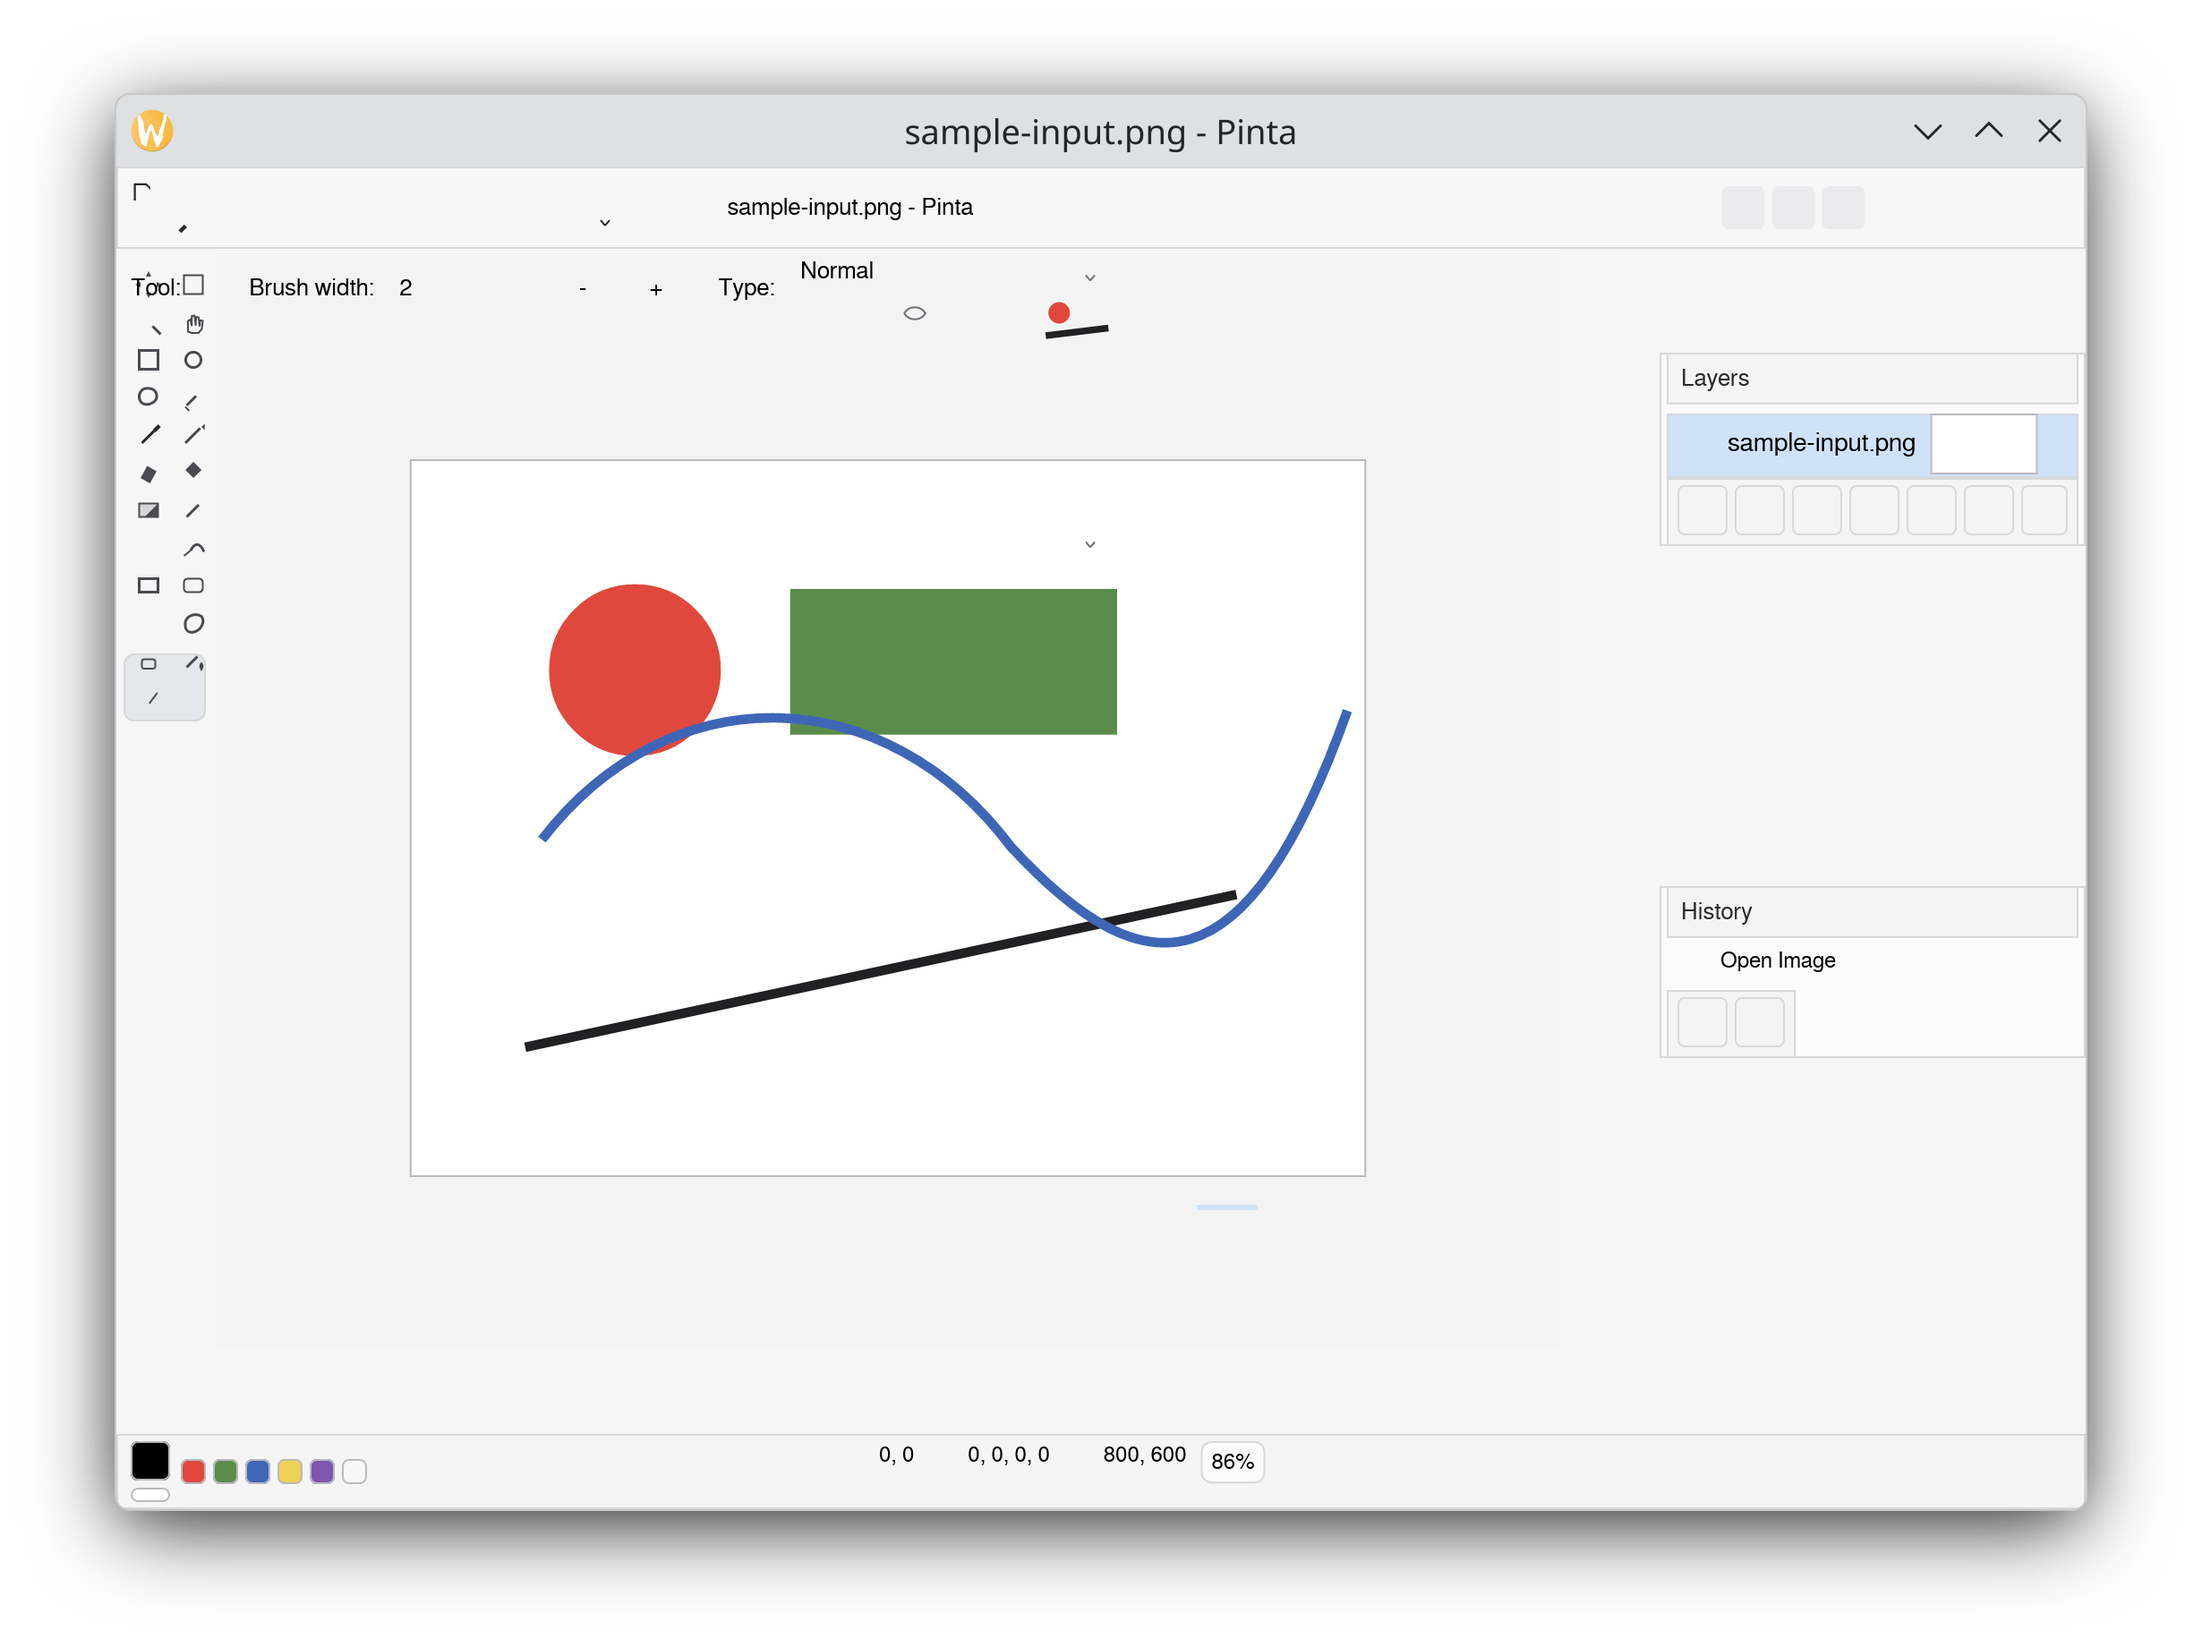
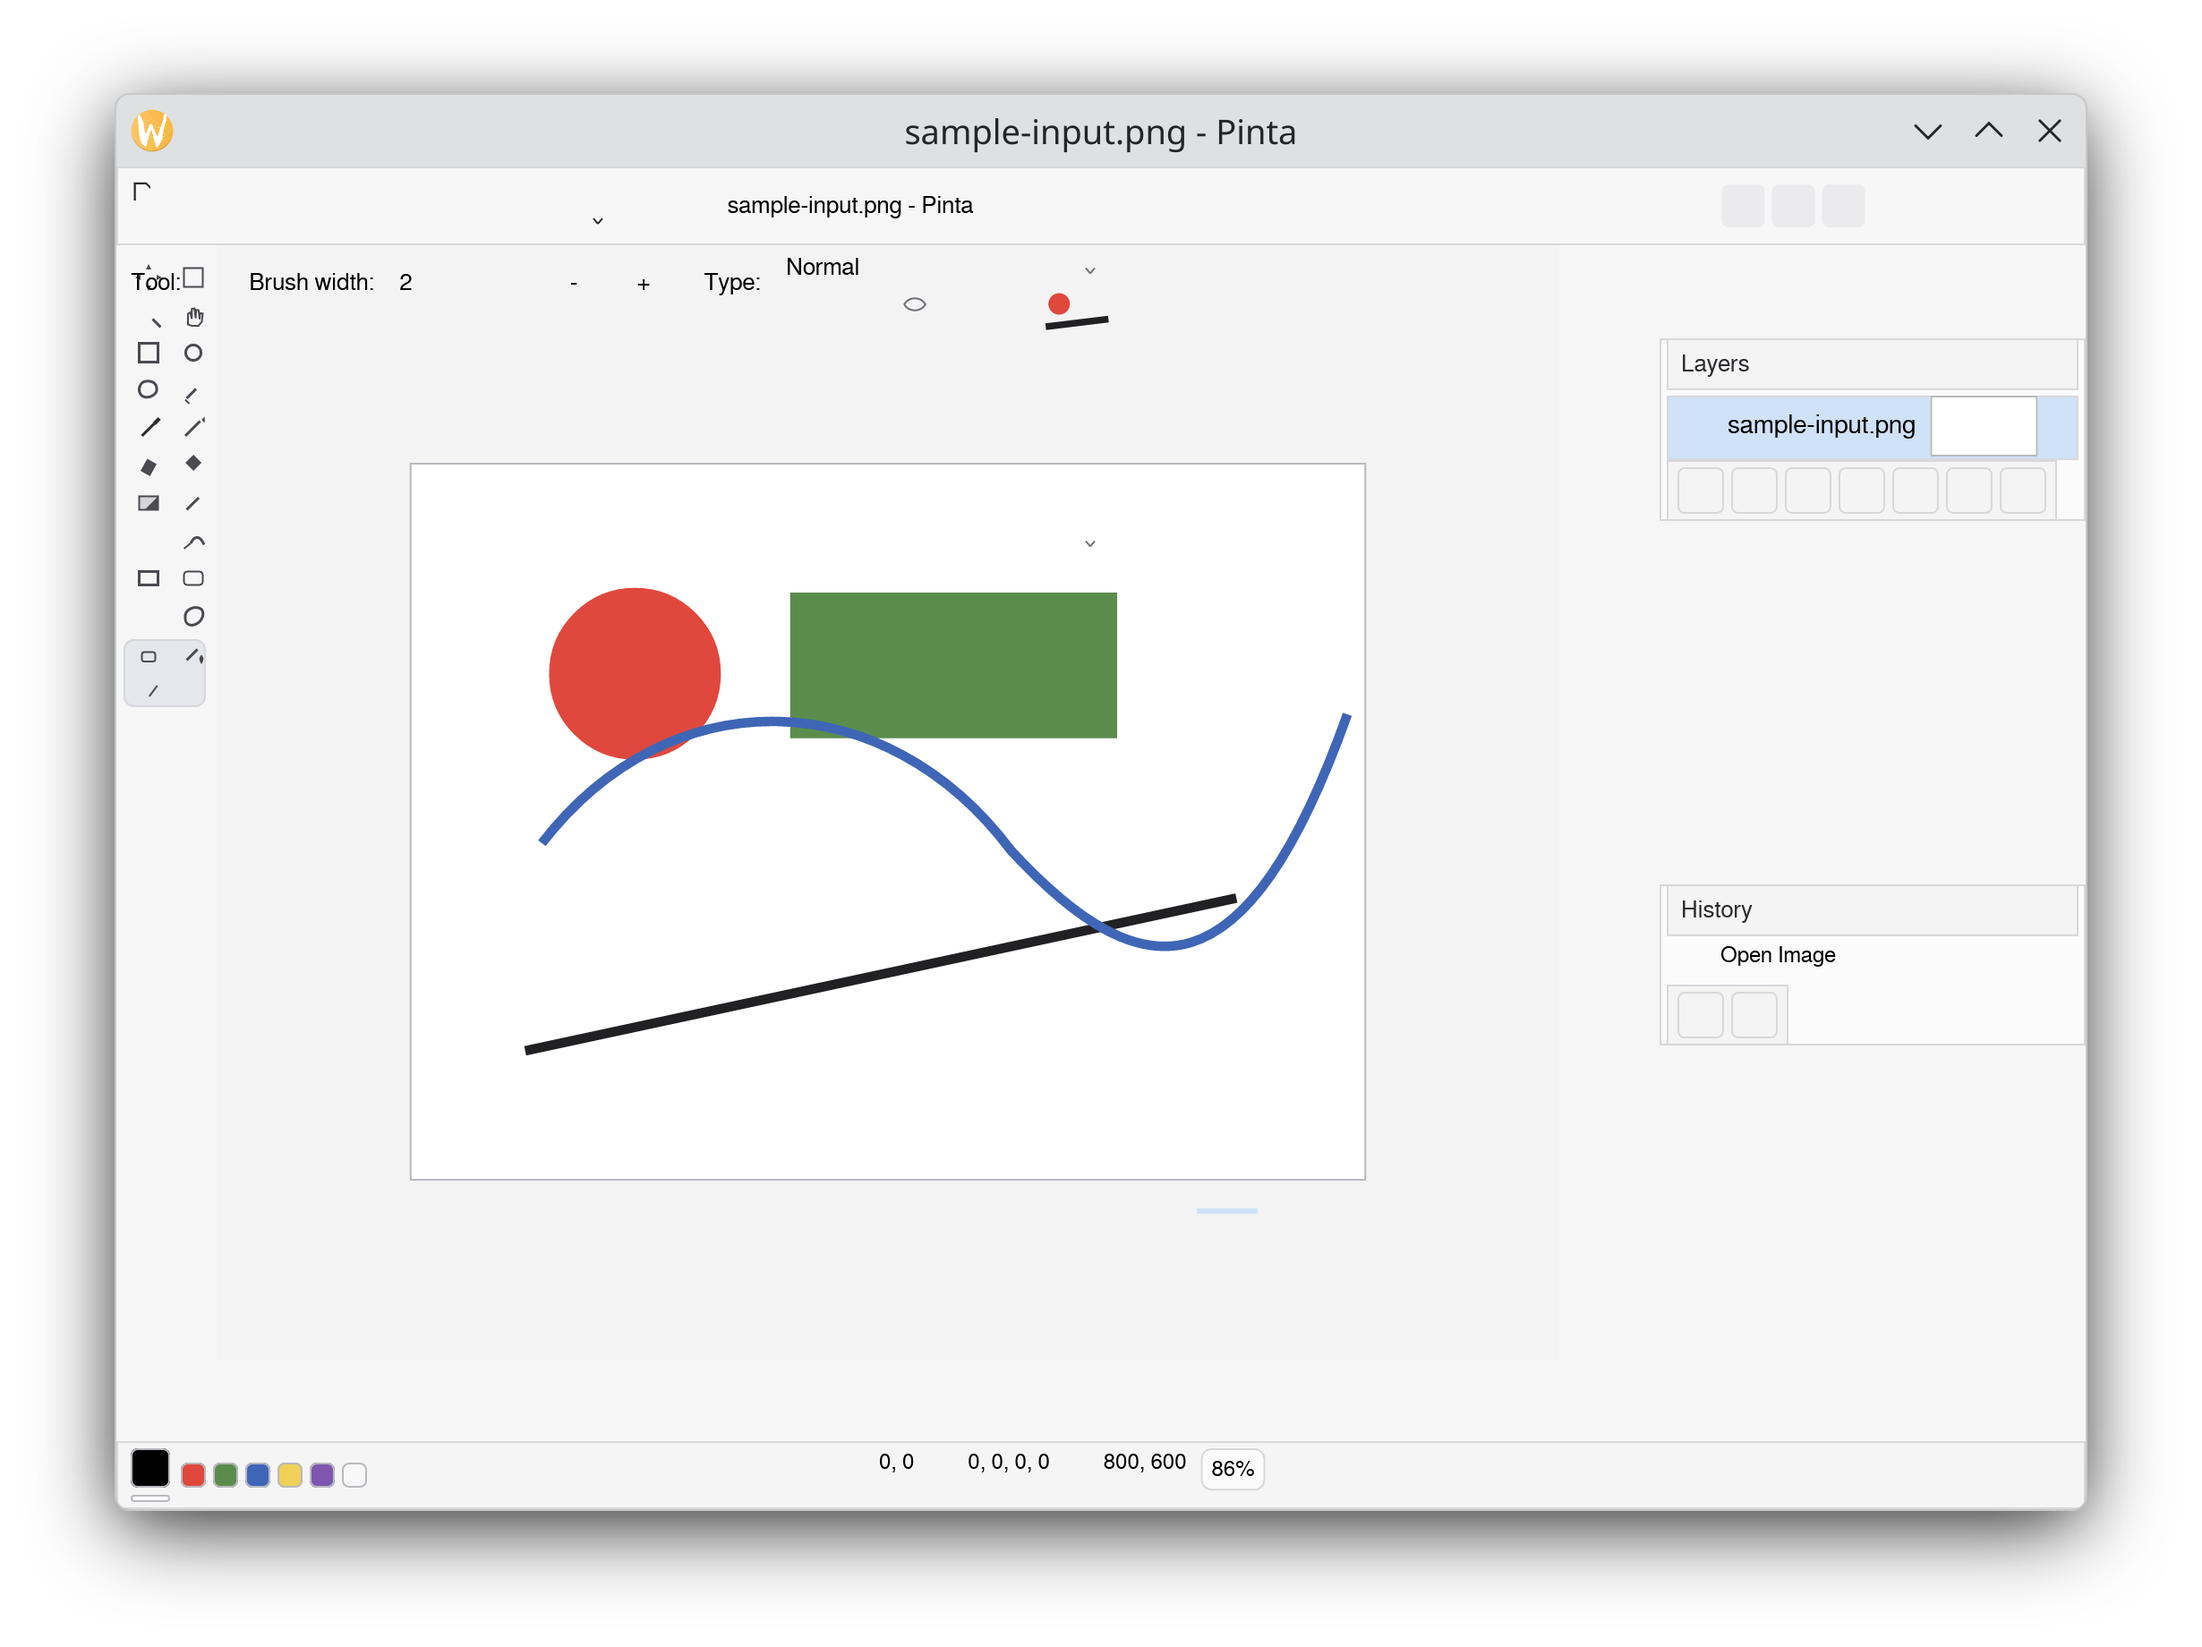
Tighten shell density

diff --git a/crates/pinta-app/src/view/main_window.rs b/crates/pinta-app/src/view/main_window.rs
@@ -274,9 +274,9 @@ pub fn view(state: &AppState) -> Element<'_, AppMessage> {
     .width(Length::Fixed(theme.sizing.right_sidebar_width as f32));
 
     let main = row![
-        container(toolbox::view(theme, tools)).padding([theme.spacing.md, 0]),
+        container(toolbox::view(theme, tools)).padding([theme.spacing.sm, 0]),
         container(viewport).width(Length::Fill).height(Length::Fill),
-        container(right_sidebar).padding([theme.spacing.md, 0]),
+        container(right_sidebar).padding([theme.spacing.sm, 0]),
     ]
     .height(Length::Fill)
     .spacing(0);
@@ -344,8 +344,8 @@ fn segmented_value<'a>(theme: &'a pinta_theme::PintaTheme, value: u32) -> Elemen
         ]
         .align_y(Alignment::Center),
     )
-    .width(Length::Fixed(176.0))
-    .height(Length::Fixed(36.0))
+    .width(Length::Fixed(168.0))
+    .height(Length::Fixed(34.0))
     .padding([0, theme.spacing.sm])
     .style(move |_| {
         iced::widget::container::Style::default()
@@ -357,7 +357,7 @@ fn segmented_value<'a>(theme: &'a pinta_theme::PintaTheme, value: u32) -> Elemen
 
 fn stepper_button<'a>(theme: &'a pinta_theme::PintaTheme, label: &'a str) -> Element<'a, AppMessage> {
     container(text(label).size(theme.typography.toolbar))
-        .width(Length::Fixed(28.0))
+        .width(Length::Fixed(26.0))
         .center(Length::Fill)
         .style(move |_| {
             iced::widget::container::Style::default()
@@ -376,7 +376,7 @@ fn dropdown_chip<'a>(theme: &'a pinta_theme::PintaTheme, label: &'a str, width: 
         .align_y(Alignment::Center),
     )
     .width(Length::Fixed(width))
-    .height(Length::Fixed(36.0))
+    .height(Length::Fixed(34.0))
     .padding([0, theme.spacing.sm])
     .style(move |_| {
         iced::widget::container::Style::default()
@@ -396,7 +396,7 @@ fn icon_dropdown_chip<'a>(theme: &'a pinta_theme::PintaTheme, icon_kind: IconKin
         .align_y(Alignment::Center),
     )
     .width(Length::Fixed(width))
-    .height(Length::Fixed(36.0))
+    .height(Length::Fixed(34.0))
     .padding([0, theme.spacing.sm])
     .style(move |_| {
         iced::widget::container::Style::default()

diff --git a/crates/pinta-theme/src/tokens/sizing.rs b/crates/pinta-theme/src/tokens/sizing.rs
@@ -18,13 +18,13 @@ pub struct Sizing {
 impl Default for Sizing {
     fn default() -> Self {
         Self {
-            top_bar_height: 46,
-            tool_options_height: 50,
+            top_bar_height: 44,
+            tool_options_height: 46,
             left_toolbar_width: 112,
             right_sidebar_width: 238,
-            footer_height: 42,
-            dock_header_height: 34,
-            dock_toolbar_height: 38,
+            footer_height: 38,
+            dock_header_height: 32,
+            dock_toolbar_height: 34,
             toolbox_button_size: 46,
             layer_row_height: 36,
             history_row_height: 24,

diff --git a/VIBE_NOTES.md b/VIBE_NOTES.md
@@ -14,9 +14,9 @@ This file exists to resume the VIBE-coded Rust port mock of Pinta without needin
 - Branch: `main`
 - Upstream reference capture session: `../pinta-upstream/diagnostics/20260419-230608/`
 - Main upstream screenshot: `../pinta-upstream/diagnostics/20260419-230608/capture-004-main-window-spectacle.png`
-- Latest retained mock screenshot before this note: `captures/pinta-rs-20260419-200348.png`
-- Latest compare bundle before this note: `compares/20260419-200350/`
-- Latest measured RMSE before this note: `49.5944`
+- Latest retained mock screenshot before this note: `captures/pinta-rs-20260419-201725.png`
+- Latest compare bundle before this note: `compares/20260419-201727/`
+- Latest measured RMSE before this note: `49.3821`
 - Best earlier RMSE mentioned in-session: `49.2716`
 
 ## Architecture Snapshot
@@ -45,18 +45,17 @@ This file exists to resume the VIBE-coded Rust port mock of Pinta without needin
 - The stronger baseline is the earlier pad/canvas/shell balance associated with the lower RMSE values.
 - Recent passes kept the improved toolbox glyph work from `crates/pinta-ui/src/widgets/icon.rs` while restoring more of the earlier shell geometry.
 - The latest retained pass adjusted:
-  - toolbox width and button size,
-  - toolbox icon scale and row spacing,
-  - unselected toolbox button chrome,
-  - toolbar icon sizing and muted opacity,
-  - toolbar helper centering so header icons no longer expand incorrectly.
+  - tighter top, options, dock, and footer heights,
+  - narrower side gutter padding around the main content,
+  - slightly denser tool option controls,
+  - previously retained toolbox and toolbar parity fixes.
 
 ## Next Resume Steps
 
 1. Freeze the current shell except for toolbox vertical spacing and icon scale.
 2. Re-run `./tools/capture_mock.sh` and `./tools/compare_with_upstream.sh` against the upstream reference screenshot.
 3. If RMSE improves further, refresh `docs/readme/pinta-rs-current.png` and consider a follow-up tag later.
-4. If RMSE regresses, keep the helper-level toolbar fix and back out only broader header grouping experiments.
+4. If RMSE regresses, keep the shell-density pass and back out only larger canvas or header geometry experiments.
 5. After visual tuning, move from parity mock work toward real editor behaviors one surface at a time.
 
 ## Quick Commands
@@ -67,5 +66,5 @@ cargo run
 ./tools/capture_mock.sh
 ./tools/compare_with_upstream.sh \
   ../pinta-upstream/diagnostics/20260419-230608/capture-004-main-window-spectacle.png \
-  captures/pinta-rs-20260419-200348.png
+  captures/pinta-rs-20260419-201725.png
 ```
